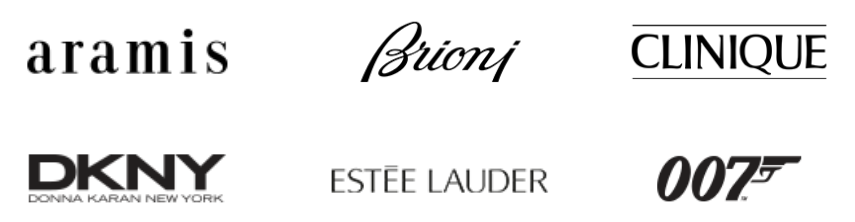
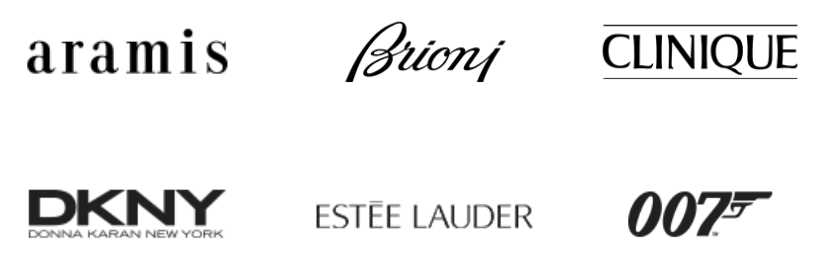
brandpage-changes

diff --git a/resources/views/components/brandbanner.blade.php b/resources/views/components/brandbanner.blade.php
@@ -12,17 +12,17 @@
 <div class="container-fluid brand-bg">
     <div class="container">
         <div class="brand-banner  row">
-            <div class="b-child col-lg-5 col-md-5"><h1>Our Brands</h1></div>
-            <div class="b-child col-lg-7 col-md-7 ">
+            <div class="b-child col-lg-6 col-md-6"><h1>Our Brands</h1></div>
+            <div class="b-child col-lg-6 col-md-6 ">
                 <div class="owl-carousel owl-theme slidercardbrand">
-                    <div class="item">
+                    <div class="item p-4">
                       <img src="pictures/brand-b1.png" alt=""/>
                     </div>
-                    <div class="item">
+                    <div class="item pt-4">
                         <img src="pictures/brand-b2.png" alt=""/>
                     
                     </div>
-                    <div class="item">
+                    <div class="item p-4">
                       <img src="pictures/brand-b3.png" alt=""/>
                     
                     </div>
